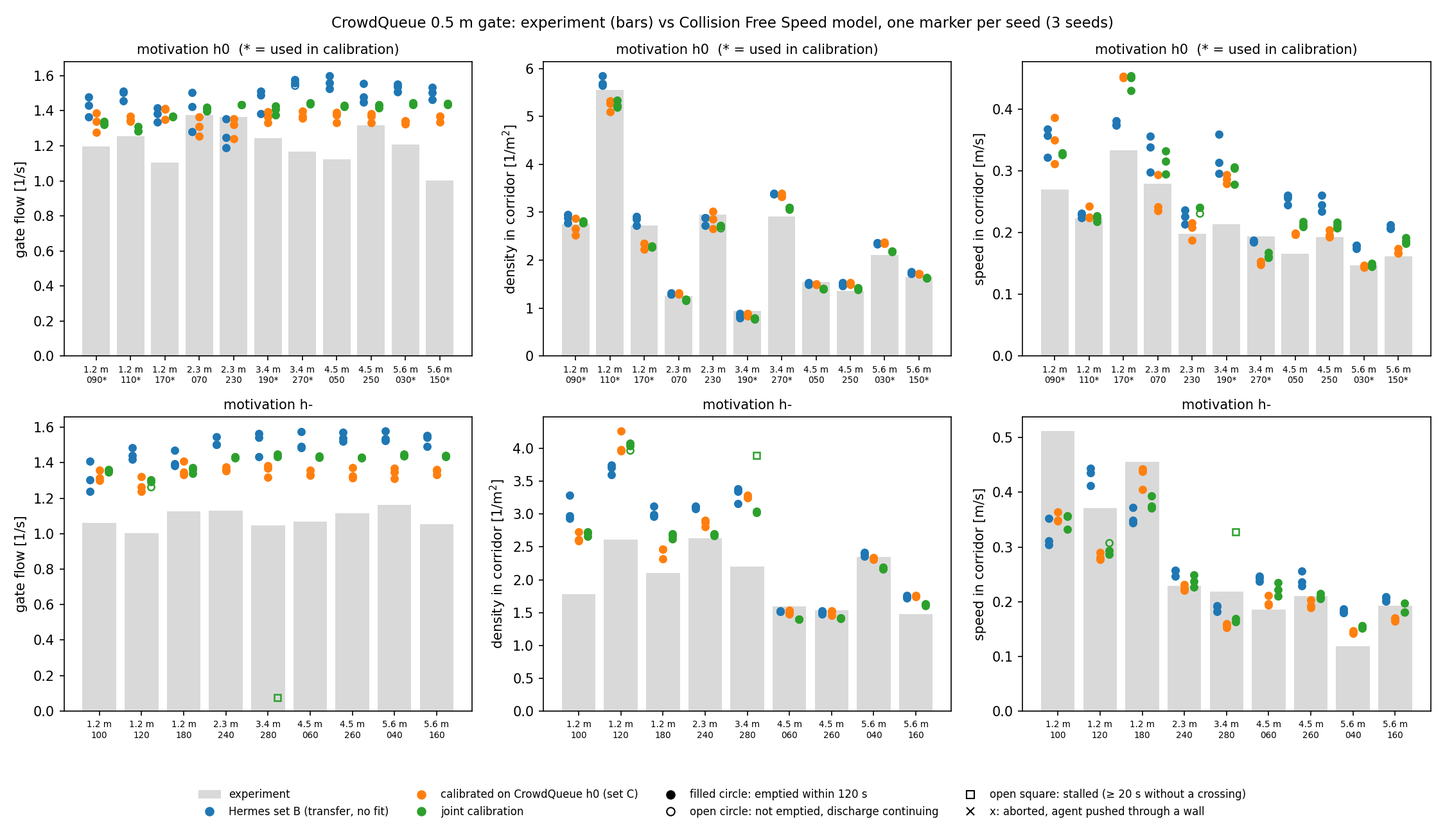
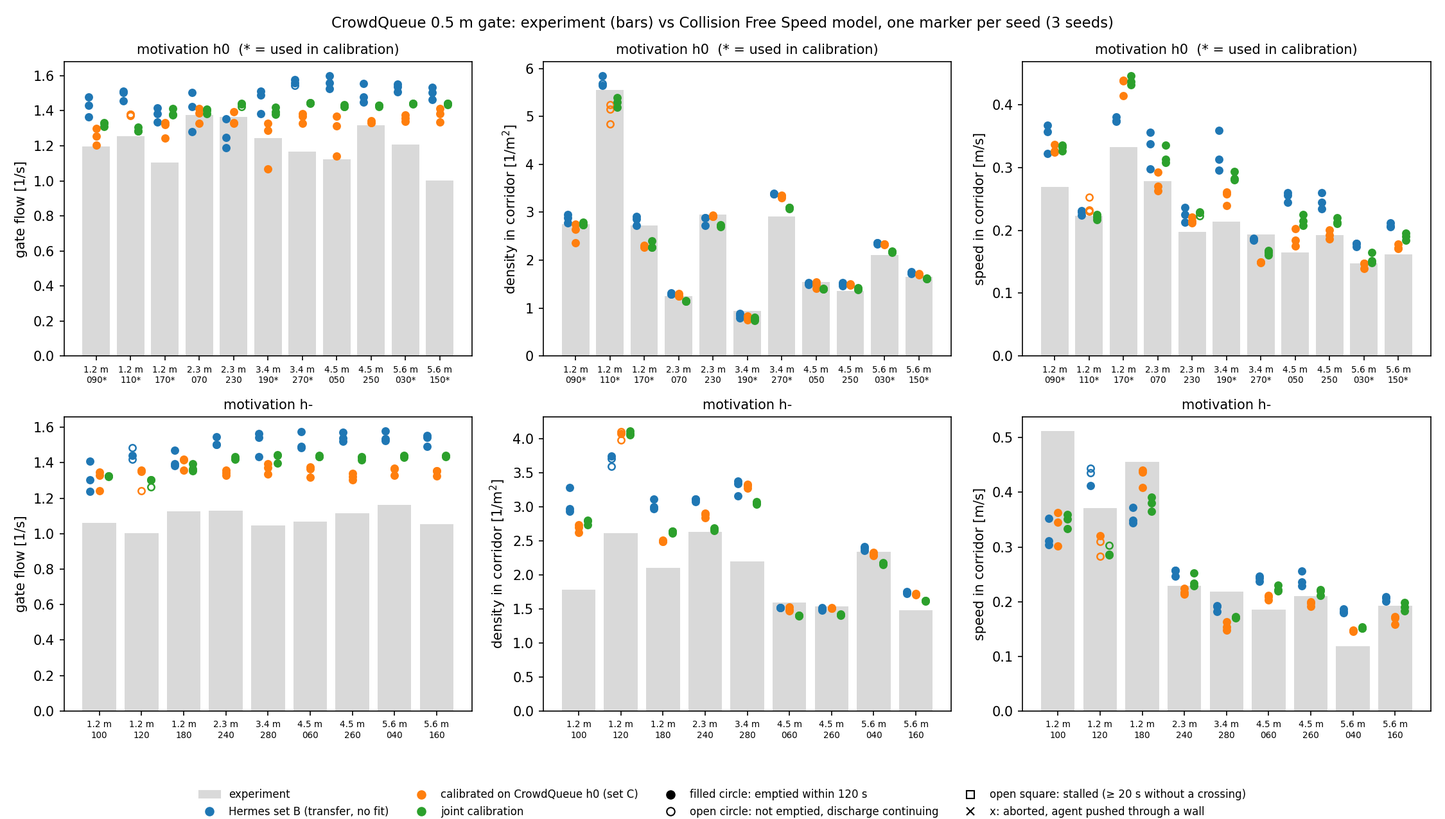
Third review: corrected counts and estimators, truncation check, narrowed conclusions

diff --git a/content/notes/dakota-calibration/index.md b/content/notes/dakota-calibration/index.md
@@ -139,7 +139,7 @@ This is the moment where a fit and a validation part ways. The Sobol analysis ha
 | neighbor repulsion range [m] | 0.10 | 0.15 | 0.25 | 0.10 |
 | weighted residual norm | | | 2.0 | 2.3 |
 
-Set B is the reason for the last column. Because a surrogate-based optimizer with a few dozen evaluations can settle in one region of a flat landscape, we repeated the fixed-speed calibration from a different optimizer seed as a robustness check. It converged, in 23 evaluations, on a different parameter set: a short time gap with strong, short-range repulsion instead of a long gap with weak, long-range repulsion. Its misfit is 2.3 against 2.0 in units of the assumed uncertainty, a difference below what the seed-to-seed noise of the simulation can resolve. The first run had visited the same region on its way and rated it 2.9. So there are at least two calibrated parameter sets for this experiment that the data cannot choose between. Two starts do not map the landscape; they show that it is not a single well.
+Set B is the reason for the last column. Because a surrogate-based optimizer with a few dozen evaluations can settle in one region of a flat landscape, we repeated the fixed-speed calibration from a different optimizer seed as a robustness check. It converged, in 23 evaluations, on a different parameter set: a short time gap with strong, short-range repulsion instead of a long gap with weak, long-range repulsion. Its misfit is 2.3 against 2.0 in units of the assumed uncertainty, a difference below what the seed-to-seed noise of the simulation can resolve. The first run had visited the same region on its way and rated it 2.9. So there are at least two calibrated parameter sets for this experiment that the data cannot choose between. Two starts say nothing about the shape of the objective in between; they show that the reported optimum depends on where the optimizer started.
 
 All these sets reproduce flow and density at the three calibration widths to within about ten percent, and speed to within twenty. They are nowhere near each other. Time gap, repulsion strength and range shift by factors of two to four between them. Three observables at three widths do not pin five parameters, and a good fit says nothing about whether the parameters mean what their names say. Fixing the one parameter that was measured removes the freedom to be wrong in that direction. It does not make the others physical: the radius that comes out, 0.13 to 0.15 m, is an effective size in a model with round bodies, and the remaining parameters still compensate for one another.
 
@@ -150,7 +150,7 @@ All these sets reproduce flow and density at the three calibration widths to wit
     caption="Flow, density and speed against bottleneck width: experiment with the acceptance band (6 % on flow, 10 % on density and speed, the uncertainty assumed in the calibration weights), default model, and the two calibrated sets with the desired speed fixed. Error bars are the minimum and maximum over six simulation seeds; the experiment is one run per width. The dotted widths, 3.0 and 4.4 m, were not used in the calibration."
 >}}
 
-With the desired speed fixed, both calibrated sets improve every observable substantially, at the held-out widths too, and the figure shows the acceptance tolerance, 6 % on flow and 10 % on density and speed. Applied as a decision rule, neither set passes everywhere. Both overshoot the flow at the held-out 3.0 m by 10 to 13 %; set A's speed is 12 % low at the held-out 4.4 m; and at the 5.0 m calibration width both are 10 % low on flow. Where the two sets differ is what else they get wrong at the wide end. Set A follows the measured increase of speed with width up to 3.6 m and then flattens, 17 % low at 5.0 m, while it keeps the density within tolerance. Set B keeps the speed within tolerance at every width and instead lets the density fall 10 % short at 5.0 m. So at the widest opening set A preserves the local density and underpredicts the speed, set B improves the speed and underpredicts the density, and both underpredict the flow. Reaching the right flow with too few, fast agents or with enough, slow ones are the two ways the model has of missing it. That is a milder version of what Liao et al. (2014) saw in FDS+Evac.
+With the desired speed fixed, both calibrated sets improve every observable substantially, at the held-out widths too, and the figure shows the acceptance tolerance, 6 % on flow and 10 % on density and speed. Applied as a decision rule, neither set passes everywhere. Both overshoot the flow at the held-out 3.0 m by 10 to 13 %; set A's speed is 12 % low at the held-out 4.4 m; and at the 5.0 m calibration width both are 10 % low on flow. Where the two sets differ is what else they get wrong at the wide end. Set A follows the measured increase of speed with width up to 3.6 m and then flattens, 17 % low at 5.0 m, while it keeps the density within tolerance. Set B keeps the speed within tolerance at every width and instead lets the density fall 10 % short at 5.0 m. So at the widest opening set A preserves the local density and underpredicts the speed, set B improves the speed and underpredicts the density, and both underpredict the flow. That is a milder version of what Liao et al. (2014) saw in FDS+Evac.
 
 Deviation of the simulation from the experiment, mean over six seeds, with the band at 6 % for flow and 10 % for density and speed:
 
@@ -164,7 +164,7 @@ Deviation of the simulation from the experiment, mean over six seeds, with the b
 
 The seed-to-seed standard deviation is 2 to 4 % for flow and density and 3 to 6 % for speed, so the differences between A and B at the wide openings are larger than the simulation noise.
 
-So the honest summary of Step 5 is: a substantial improvement over the defaults, most comparisons within tolerance for either set, and failures of the stated rule at the held-out 3.0 m flow for both sets, at the held-out 4.4 m speed for set A, and at the widest calibration opening for both. By the rule we stated, the model is not validated for the full 2.4 to 5.0 m range; it is validated, for either set, at 2.4, 3.6 and the held-out 4.4 m on all three observables except set A's speed, and it misses the widest opening in a way the two calibrations move between speed and density but neither removes. Whether that is acceptable depends on the purpose, which is exactly why the purpose has to be stated first.
+So the honest summary of Step 5 is: a substantial improvement over the defaults, most comparisons within tolerance for either set, and failures of the stated rule at the held-out 3.0 m flow for both sets, at the held-out 4.4 m speed for set A, and at the widest calibration opening for both. By the rule we stated, the model is not validated for the full 2.4 to 5.0 m range. At the calibration widths 2.4 and 3.6 m both sets meet the tolerance on all three observables, which is a fit, not validation. The held-out evidence is two widths: at 4.4 m set B meets the tolerance on all three observables and set A fails it on speed; at 3.0 m both fail it on flow. And both miss the widest calibration opening in a way the two calibrations move between speed and density but neither removes. Whether that is acceptable depends on the purpose, which is exactly why the purpose has to be stated first.
 
 ## Step 6 — a second experiment, and where the model stops
 
@@ -173,38 +173,38 @@ So the honest summary of Step 5 is: a substantial improvement over the defaults,
     caption="The CrowdQueue experiment, Wuppertal 2018: a run in the 5.6 m corridor seen from above, and the setup with the 0.5 m gate at the origin. Images: Pedestrian Dynamics Data Archive, Forschungszentrum Jülich."
 >}}
 
-A calibration is only validated within the domain it was tested in. To find the edge of that domain we took a second open dataset, the [CrowdQueue experiment](https://ped.fz-juelich.de/db/doku.php?id=crowdqueue) from Wuppertal 2018 (Adrian et al. 2020): a crowd in front of an entrance again, but through a 0.5 m gate instead of a 2.4 to 5 m opening, in corridors from 1.2 to 5.6 m wide, with 11 to 75 participants and the motivation varied between runs. The archive files carry the full geometry and every trajectory, and each simulation is seeded from the data: agents that are in view at the first frame start there, and agents that enter the tracked corridor later are injected at the time and place of their first observation. Every tracked participant is simulated; the archive's participant counts and the tracked counts agree for all 21 usable runs, and no injection failed. The simulated area is the corridor and the space behind the gate only. Density and speed are averaged over the same window in experiment and simulation, the frames between the tenth and ninetieth percent of that run's own crossings, so a simulation that discharges more slowly is averaged over a longer window than the experiment. In the high-motivation run the window is 1 to 5 s in the experiment and the measurement area is 2.2 m², which is why its density and speed, 0.22 per square metre and 0.12 m/s, are small numbers from few people and should be read as such.
+A calibration is only validated within the domain it was tested in. To find the edge of that domain we took a second open dataset, the [CrowdQueue experiment](https://ped.fz-juelich.de/db/doku.php?id=crowdqueue) from Wuppertal 2018 (Adrian et al. 2020): a crowd in front of an entrance again, but through a 0.5 m gate instead of a 2.4 to 5 m opening, in corridors from 1.2 to 5.6 m wide, with 11 to 75 participants and the motivation varied between runs. The archive files carry the full geometry and every trajectory, and each simulation is seeded from the data: agents that are in view at the first frame start there, and agents that enter the tracked corridor later are injected at the time and place of their first observation. Every tracked participant is simulated; the archive's participant counts and the tracked counts agree for all 21 usable runs. An injection that finds its spot occupied is retried with small displacements for 10 s and then dropped; this happened to one to four people in a few seeds of the two densest 1.2 m runs, and such a seed cannot count as emptied because the expected population, the tracked count, was not all simulated. The simulated area is the corridor and the space behind the gate only. Density and speed are averaged over the same window in experiment and simulation, the frames between the tenth and ninetieth percent of that run's own crossings, so a simulation that discharges more slowly is averaged over a longer window than the experiment. In the high-motivation run the window is 1 to 5 s in the experiment and the measurement area is 2.2 m², which is why its density and speed, 0.22 per square metre and 0.12 m/s, are small numbers from few people and should be read as such.
 
-A note on what checking this section cost. A review of an earlier draft asked whether the simulations really contained everyone in the experiment, and they did not. Two of the runs have a third of their participants entering the tracked corridor during the first seconds, after the first frame from which we had taken the starting positions; one of those runs was in the calibration set. The same audit found that the trajectory writer buffers its last hundred frames and writes them only when it is closed, which we had not done, so the last few seconds of every simulation in this note had been missing from the analysis, and it found that a full-width exit region let the router send agents around the outside of the barriers. All three were corrected, and every CrowdQueue calibration and comparison below, the semicircle runs, and the Hermes validations were recomputed. The Hermes calibrations and the sensitivity analyses use steady-phase observables that the lost seconds do not touch, and were kept. We report this because validation that does not audit its own pipeline is not validation.
+A note on what checking this section cost. A review of an earlier draft asked whether the simulations really contained everyone in the experiment, and they did not. Two of the runs have a third of their participants entering the tracked corridor during the first seconds, after the first frame from which we had taken the starting positions; one of those runs was in the calibration set. The same audit found that the trajectory writer buffers its last hundred frames and writes them only when it is closed, which we had not done, so the last few seconds of every simulation in this note had been missing from the analysis, and it found that a full-width exit region let the router send agents around the outside of the barriers. All three were corrected, and every CrowdQueue calibration and comparison below, the semicircle runs, and the Hermes validations were recomputed. The Hermes calibrations and the sensitivity analyses use steady-phase observables, and we checked rather than assumed that the lost seconds do not touch them: for the default and the calibrated parameters at three widths, deleting the last hundred written frames from a complete trajectory changes the crossing count by at most two of 350, the measurement window by at most 0.3 s, and flow, density and speed by at most 0.4 %. Those analyses were kept. We report this because validation that does not audit its own pipeline is not validation.
 
-Each run is simulated three times and every seed is shown, because averages hide the thing that matters here. A seed counts as emptied if everyone has passed the gate within 120 s, twice the longest experiment. Otherwise it is not emptied, and if it also had an interval of 20 s or more without a crossing while agents remained, it counts as stalled. Flow is the slope of N(t) between the tenth and ninetieth percent of crossings for emptied runs; for runs that did not empty it is the number who passed divided by the time from the first crossing to the end of the run, which is lower by construction. Both are given in the repository; the figure shows the one that was calibrated on.
+Each run is simulated three times and every seed is shown, because averages hide the thing that matters here. A seed counts as emptied if every expected participant was injected and passed the gate within 120 s, twice the longest experiment. Otherwise it is not emptied, and if it also had an interval of 20 s or more without a crossing while agents remained, it counts as stalled. Flow is the slope of N(t) between the tenth and ninetieth percent of crossings for emptied runs; for runs that did not empty it is the number who passed divided by the time from the first crossing to the end of the run, which is lower by construction. Both are given in the repository; the figure shows the one that was calibrated on.
 
 {{< figure
     src="fig10.png"
     caption="N(t) at the gate for three baseline runs, experiment against the three seeds of the CrowdQueue calibration. In all three the slope, the active-passage flow, is close to the measured one; the late steps in run 110 are the last few people, not a stall."
 >}}
 
-The transfer test comes first: the two Hermes parameter sets applied to the 21 runs without refitting. Set A, the long time gap with weak long-range repulsion, stalls at the funnel in 46 of 63 seeds and empties 16. Set B, the short gap with strong short-range repulsion, empties 62 of 63 and stalls in none, but where it flows it overshoots the measured gate flow by 22 % on average in the baseline runs and by 37 % in the low-motivation runs. So of the two Hermes optima that the wide-bottleneck data could not tell apart, one does not pass a half-metre gate at all and the other passes it too fast. That is the practical meaning of the parameter compensation in Step 4.
+The transfer test comes first: the two Hermes parameter sets applied to the 21 runs without refitting. Set A, the long time gap with weak long-range repulsion, stalls at the funnel in 46 of 63 seeds and empties 16. Set B, the short gap with strong short-range repulsion, empties 59 of 63 and stalls in none, but where it flows it overshoots the measured gate flow by 22 % on average in the baseline runs and by 37 % in the low-motivation runs. So of the two Hermes optima that the wide-bottleneck data could not tell apart, one mostly stalls at a half-metre gate and the other passes it too fast. That is the practical meaning of the parameter compensation in Step 4: sets with the same fit quality on one experiment behave differently on another.
 
-Recalibrating on the seven baseline runs at 1.2, 3.4 and 5.6 m, with the wall parameters free because the 1.2 m corridors exercise them, was done from two optimizer starts as in Step 4, and again they disagree. Set C, the better one, empties all 63 seeds and has a residual norm of 10.9 on its calibration runs; set D, from the other start, has 16.3, stalls in 14 seeds and aborted once with an agent pushed through a wall. Set C's mean deviation over the baseline runs is +12 % in flow, +1 % in density and +9 % in speed, with individual runs between −19 % and +36 % in flow. The radius came out at 0.14 m in set C and at its lower bound of 0.10 m in set D.
+Recalibrating on the seven baseline runs at 1.2, 3.4 and 5.6 m, with the wall parameters free because the 1.2 m corridors exercise them, was done from two optimizer starts as in Step 4, and again they disagree. Set C, the better one, empties 58 of 63 seeds, the other five being seeds in which one to four late entrants could not be placed, and has a residual norm of 9.7 on its calibration runs; set D, from the other start, has 11.3 and stalls in 10 seeds. Set C's baseline flows are 10 % high on average, with individual runs from 1 % low to 37 % high. The radius came out at 0.14 m in set C and at its lower bound of 0.10 m in set D.
 
 {{< figure
     src="fig6.png"
     caption="CrowdQueue: experiment (bars) against Hermes set B transferred without fitting (blue), the CrowdQueue calibration, set C (orange), and the joint calibration (green), one marker per seed, columns ordered by corridor width with the run number; asterisks mark the runs used in the calibration. Filled circle: the run emptied within 120 s; open circle: not emptied, discharge continuing; open square: stalled. Top: baseline motivation, bottom: low motivation."
 >}}
 
-The low-motivation runs show what a flow-only validation would miss. The measured flow drops by about 10 % from baseline to low motivation at the same gate; the model calibrated on the baseline runs does not drop, it rises, and overshoots the low-motivation flow by 24 % on average. In the 1.2 m corridor with 24 people the calibrated model gives a flow 25 % high, a corridor 48 % denser than measured and people moving 31 % slower: the throughput is within a quarter of the measurement while the upstream state is wrong in two directions at once. Refitting only the time gap on the nine low-motivation runs moves it to the upper end of its range, 1.9 s, and leaves a residual norm of 11.7 over 27 residuals, so the motivation effect is not a time gap with the other parameters held.
+The low-motivation runs show what a flow-only validation would miss. Between the baseline and the low-motivation condition the measured flow at the same gate is about 10 % lower; the model has no input for motivation, so with parameters fixed at the baseline calibration it predicts the same or a higher flow, and overshoots the low-motivation runs by 24 % on average. In the 1.2 m corridor with 24 people the calibrated model gives a flow 25 % high, a corridor 48 % denser than measured and people moving 31 % slower: the throughput is within a quarter of the measurement while the upstream state is wrong in two directions at once. Refitting only the time gap on the nine low-motivation runs moves it to the upper end of its range, 1.9 s, and leaves a residual norm of 11.7 over 27 residuals, so the difference between the conditions is not reproduced by that one adjustment with the other parameters held.
 
 The one high-motivation run, 11 people through the 1.2 m corridor at 2.1 persons per second, gets its own sweep.
 
 {{< figure
     src="fig8.png"
-    caption="The high-motivation run: flow, density and speed in the corridor against the time gap, all other parameters at set C, three seeds per point shown individually. Grey band: the measured value with the uncertainty assumed in the calibration weights. The measured flow is reached at a time gap near 0.4 s; there the corridor density is four times and the speed three times the measured value."
+    caption="The high-motivation run: flow, density and speed in the corridor against the time gap, all other parameters at set C, three seeds per point shown individually. Filled markers and the line: runs that emptied, with the active-passage flow; open markers: runs that did not empty, with their throughput over the run, a different estimator that is lower by construction. Grey band: the measured value with the uncertainty assumed in the calibration weights. The measured flow is reached at a time gap near 0.4 s; there the corridor density is four times and the speed three times the measured value."
 >}}
 
 None of the sampled time gaps, with the other parameters fixed at set C, reproduces all three observables within the bands. A time gap of about 0.4 s reaches the measured flow, and there the model has four times the measured density and three times the measured speed in the corridor. A larger sweep over all parameters might do better; this one shows that the time gap alone does not.
 
-With the stated tolerance, then, the CrowdQueue result is: after recalibration the model passes the gate in every seed and matches the baseline flows to within about 20 %, which is outside the 6 % tolerance for most runs; it does not reproduce the effect of motivation in either direction; and the Hermes parameters do not transfer, one set because it stalls, the other because it is 20 to 40 % too fast. Our reading is that the round body and the arching it produces at a half-metre gate are the limiting factors; that is a hypothesis the figures are consistent with, not something they prove.
+With the stated tolerance, then, the CrowdQueue result is: after recalibration the model passes the gate in every seed in which everyone could be placed, and its baseline flows are 10 % high on average with individual runs from 1 % low to 37 % high, outside the 6 % tolerance for most of them; it does not reproduce the difference between the motivation conditions in either direction; and the Hermes parameters do not transfer, one set because it mostly stalls, the other because it is 20 to 40 % too fast. What the corrected results establish is narrower than what an earlier draft of this note claimed: recalibration makes passage reliable without bringing every observable within tolerance, and parameter sets that fit the wide bottleneck equally well behave very differently at the narrow gate. Why the remaining discrepancies are there, whether the round body, the interaction rules or something else, these tests do not say.
 
 ## Step 7 — a third experiment, without barriers
 
@@ -213,7 +213,7 @@ With the stated tolerance, then, the CrowdQueue result is: after recalibration t
     caption="The BaSiGo entrance experiment, Düsseldorf 2013: the crowd in front of the unguided entrance, top right. Image: Pedestrian Dynamics Data Archive, Forschungszentrum Jülich."
 >}}
 
-The last test uses the [BaSiGo entrance experiment](https://ped.fz-juelich.de/da/doku.php?id=entrance_semicircle) from 2013 (Sieben et al. 2017): an entrance with two half-metre lanes and no guiding barriers, 319 people told that their favourite artist is playing and they want to be first in, 273 of them tracked. Nothing was fitted to it, and the comparison is a spatial profile rather than a number, the kind of validation Liao et al. (2017) asked for. The comparison is conditional on the observed arrivals: people enter the camera view during the run, so the simulation injects each of the 273 tracked agents at the time and place where the data first see them, nudged by up to a few decimetres if the spot is occupied, and no injection failed. The 46 participants who were never tracked are absent from the simulation, so the simulated crowd is about 15 % smaller than the real one and correspondingly under less pressure. The entrance flow is measured over the same 20 to 110 s window as the maps; "passed" counts everyone who crossed the entrance line within the 120 s of the run.
+The last test uses the [BaSiGo entrance experiment](https://ped.fz-juelich.de/da/doku.php?id=entrance_semicircle) from 2013 (Sieben et al. 2017): an entrance with two half-metre lanes and no guiding barriers, 319 people told that their favourite artist is playing and they want to be first in, 273 of them tracked. Nothing was fitted to it, and the comparison is a spatial profile rather than a number, the kind of validation Liao et al. (2017) asked for. The comparison is conditional on the observed arrivals: people enter the camera view during the run, so the simulation injects each of the 273 tracked agents at the time and place where the data first see them, nudged by up to a few decimetres if the spot is occupied, and no injection failed. The 46 participants who were never tracked are absent from the simulation, so the simulated crowd is about 15 % smaller than the real one; that changes the interactions in ways we did not quantify. The entrance flow is measured over the same 20 to 110 s window as the maps; "passed" counts everyone who crossed the entrance line within the 120 s of the run.
 
 {{< figure
     src="fig7.png"
@@ -229,9 +229,10 @@ The last parameter set in the table comes from one Dakota run over both experime
 | parameter set | Hermes norm (9 residuals) | CrowdQueue norm (21 residuals) | CrowdQueue seeds emptied / stalled |
 |---|---|---|---|
 | Hermes set A | 2.7 | 30.0 | 16 / 46 |
-| Hermes set B | 2.4 | 14.9 | 62 / 0 |
-| CrowdQueue set C | | 10.9 | 63 / 0 |
-| joint | 7.9 | 12.0 | 60 / 1 |
+| Hermes set B | 2.4 | 14.9 | 59 / 0 |
+| CrowdQueue set C | | 9.7 | 58 / 0 |
+| CrowdQueue set D | | 11.3 | 52 / 10 |
+| joint | 7.9 | 12.0 | 61 / 0 |
 
 The joint set is close to the CrowdQueue specialist on CrowdQueue and three times worse than either Hermes set on Hermes, where it underpredicts the speed in front of the bottleneck by 24 to 39 % at every width. The single search we ran found no parameter set that meets the stated tolerances in both experiments; it found one that nearly matches the narrow-gate specialist at the price of the wide-bottleneck fit. Whether a better compromise exists elsewhere in the parameter space, this search cannot say.
 
@@ -252,7 +253,7 @@ The parameter sets found along the way, all with the desired speed fixed at the 
 
 Sets A and B, and sets C and D, are two optimizer starts on the same data.
 
-It is worth being plain about what happened to the "calibrated model" over the course of this note. After Hermes we had two parameter sets, not one, that reproduced flow, density and speed at five bottleneck widths, two of them unseen, mostly within ten percent, and that disagreed with each other on what the model gets wrong at the widest opening. At a half-metre gate one of them stalled in 46 of 63 seeds and the other was 20 to 40 % too fast. The set calibrated on CrowdQueue passes the gate in every seed and matches the baseline flows to within about 20 %, but it does not reproduce what motivation does to the same gate in either direction, and at the unguided entrance it and every other set drain the crowd two to three times faster than the people did. The joint calibration, the one compromise our search found, nearly matches the narrow-gate specialist and gives up the wide-bottleneck fit to do so. The one parameter that was actually measured, the free speed, was the one the first optimizer run most wanted to change.
+It is worth being plain about what happened to the "calibrated model" over the course of this note. After Hermes we had two parameter sets, not one, that reproduced flow, density and speed at five bottleneck widths, two of them unseen, mostly within ten percent, and that disagreed with each other on what the model gets wrong at the widest opening. At a half-metre gate one of them stalled in 46 of 63 seeds and the other was 20 to 40 % too fast. The set calibrated on CrowdQueue passes the gate in every seed in which everyone could be placed, with baseline flows 10 % high on average and up to 37 % high in single runs, but it does not reproduce the difference between the motivation conditions at the same gate in either direction, and at the unguided entrance the two sets we tested there, Hermes set A and the joint set, drain the crowd two to three times faster than the people did. The joint calibration, the one compromise our search found, nearly matches the narrow-gate specialist and gives up the wide-bottleneck fit to do so. The one parameter that was actually measured, the free speed, was the one the first optimizer run most wanted to change.
 
 None of this is a verdict on the Collision Free Speed model in particular. It is what validation looks like when it is done across regimes instead of within one, and we would expect other pedestrian models with a handful of scalar parameters and round agents to show similar limits, though this note tests only one. The practical consequences, for anyone who runs pedestrian simulations for a living:
 
